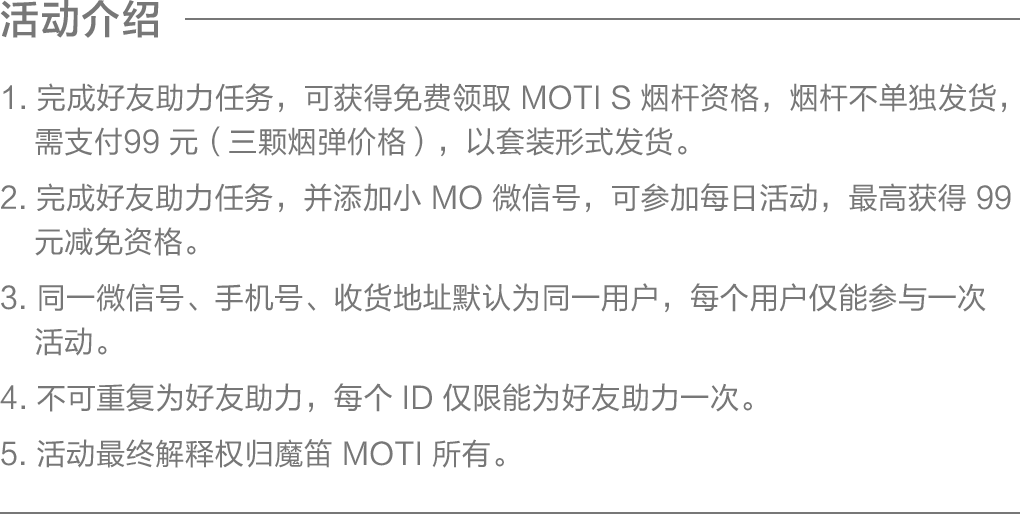
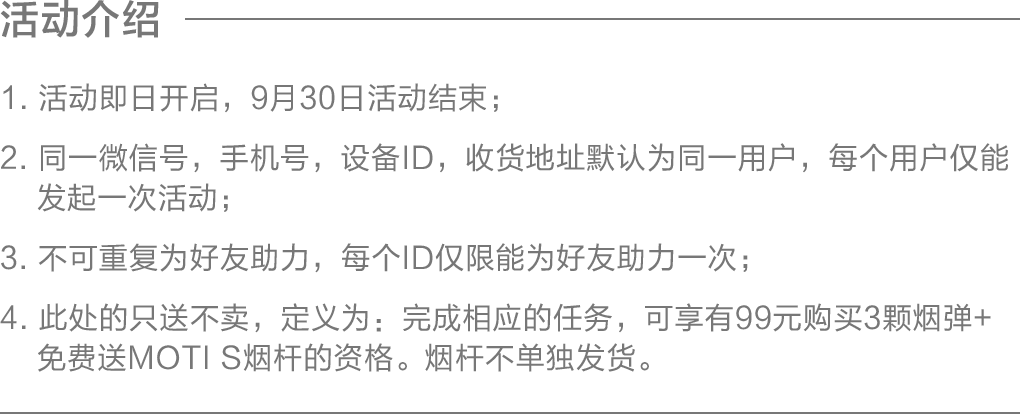
活动开始

diff --git a/pages/index/index.vue b/pages/index/index.vue
@@ -20,7 +20,7 @@
 <!-- 		<view class="act-end">
 			<image src="../../static/end.png" mode=""></image>
 		</view> -->
-		<act-end></act-end>
+		<!-- <act-end></act-end>取消结束,如果想结束活动放开此注释即可 -->
 	</view>
 </template>
 
@@ -142,10 +142,10 @@ export default {
 					let taskId = parseInt(result.taskId);
 					
 					
-					/********活动结束禁止跳转
 					if (!isNaN(taskId) && taskId > 0) {
 						this.toPath(taskId)
 					}
+					/********活动结束禁止跳转
 					*********/
 				}
 			} else {

diff --git a/components/header.vue b/components/header.vue
@@ -7,7 +7,7 @@
 				</view >
 				<view class='top-rg' @tap='aboutMe'>什么是<text>MOTIS</text></view>
 			</view>
-			<view class="activityNum">活动时间&nbsp;即日起至2019年08月25日</view>
+			<view class="activityNum">活动时间&nbsp;即日起至2019年09月30日</view>
 		</view>
 	</view>
 </template>

diff --git a/pages/help/help.vue b/pages/help/help.vue
@@ -34,7 +34,7 @@
 <!-- 		<view class="act-end">
 			<image src="../../static/end.png" mode=""></image>
 		</view> -->
-		<act-end></act-end>
+		<!-- <act-end></act-end> 取消结束,如果想结束活动放开此注释即可-->
 	</view>
 </template>
 
